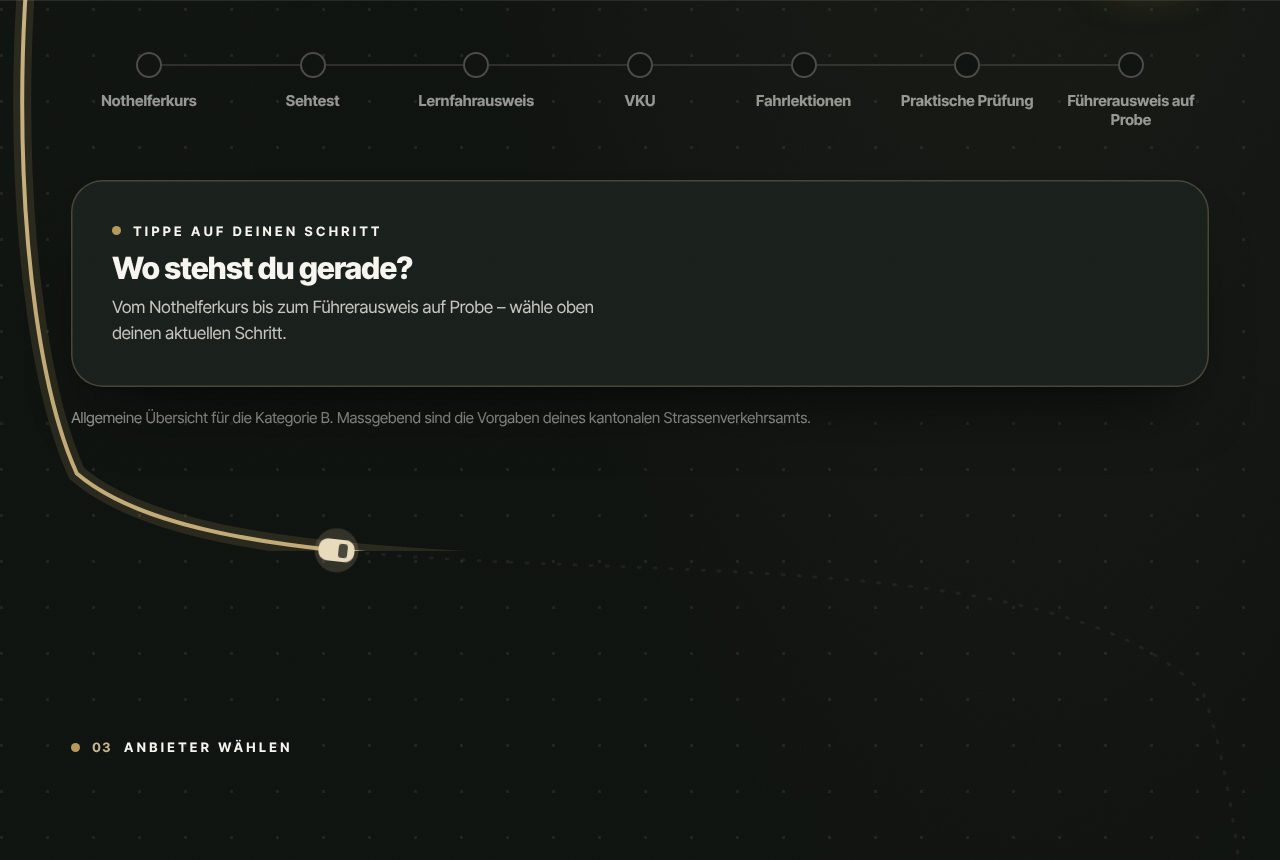
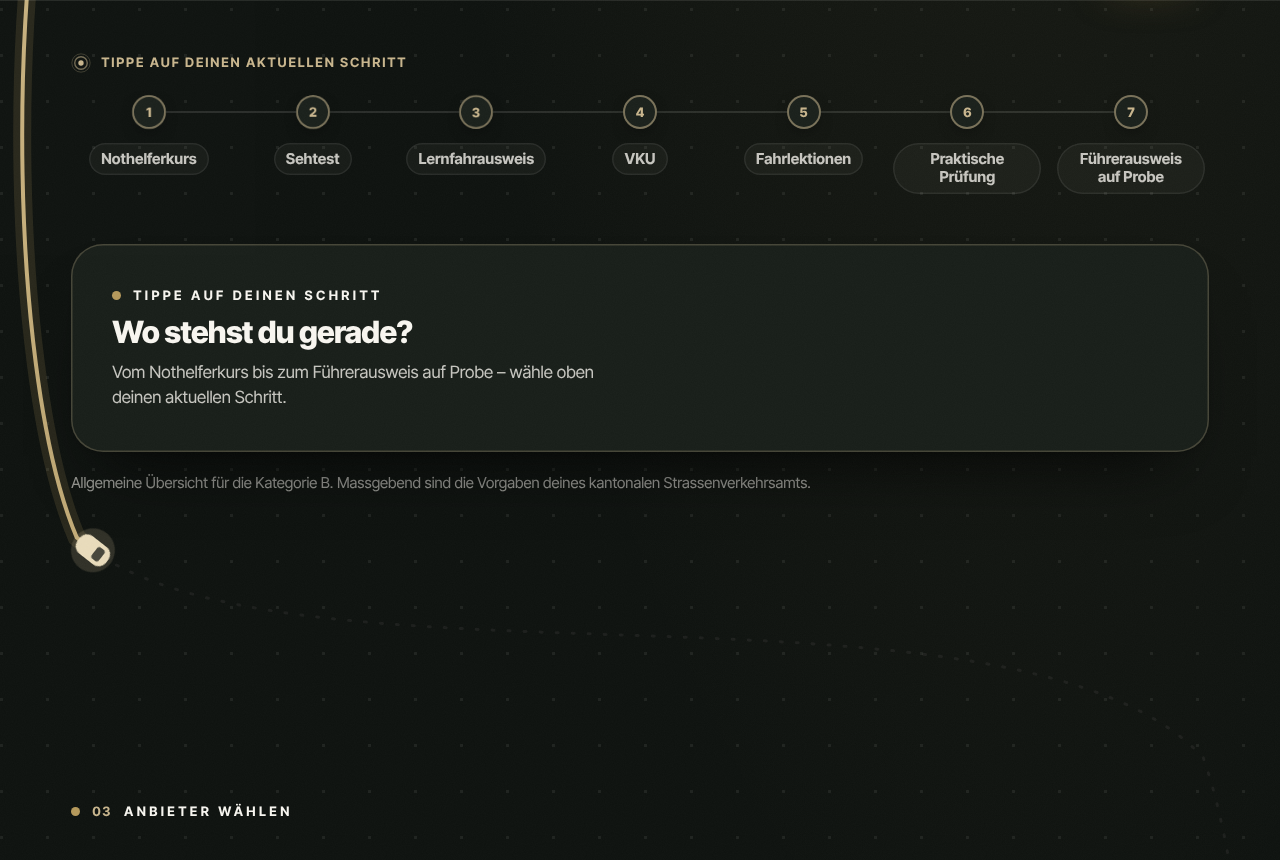
Fahrstart Roadmap: Schritte sichtbar klickbar
- Nummerierte Punkte mit Goldrand, Beschriftung als Button (mobil mit Pfeil, aufgeklappt nach unten)
- Hover-, Fokus- und Druck-Feedback, gewaehlter Schritt in Gold
- Hinweis und Puls-Welle ueber die Punkte bis zur ersten Auswahl

Claude-Session: https://claude.ai/code/session_01EPwibJ8KXm8GrN7qt8Mmr4

diff --git a/web/gewinnen/assets/css/fahrstart.css b/web/gewinnen/assets/css/fahrstart.css
@@ -109,18 +109,28 @@ main > section { position: relative; z-index: 1; }
 .rm-path { position: relative; }
 .rm-steps { position: relative; z-index: 2; display: grid; grid-template-columns: repeat(7, 1fr); gap: 8px; }
 .rm-steps li > button {
-  width: 100%; display: grid; justify-items: center; gap: 14px; padding: 0 4px; border: 0; background: none; cursor: pointer; text-align: center;
+  width: 100%; display: grid; justify-items: center; gap: 14px; padding: 0 4px; border: 0; background: none; cursor: pointer; text-align: center; -webkit-tap-highlight-color: transparent;
 }
-.rm-steps .dot { position: relative; width: 26px; height: 26px; border-radius: 50%; background: var(--bg); box-shadow: inset 0 0 0 2px rgba(248, 246, 240, .25); transition: box-shadow .4s, background .4s, transform .5s var(--ease); }
-.rm-steps .t { font-size: 15px; font-weight: 700; color: var(--muted); line-height: 1.25; transition: color .4s; }
-.rm-steps li > button:hover .dot { transform: scale(1.18); box-shadow: inset 0 0 0 2px var(--gold); }
+/* Klickbar wirken: nummerierte Punkte mit Goldrand, Beschriftung als Button, Hover/Press-Feedback */
+.rm-steps .dot { position: relative; width: 34px; height: 34px; border-radius: 50%; display: grid; place-items: center; background: #1b211c; box-shadow: inset 0 0 0 2px rgba(201, 182, 142, .55), 0 6px 18px -8px rgba(0, 0, 0, .8); transition: box-shadow .4s, background .4s, transform .5s var(--ease); }
+.rm-steps .dot b { font-size: 13px; font-weight: 800; color: var(--gold-hi); font-variant-numeric: tabular-nums; transition: color .4s; }
+.rm-steps .t { padding: 7px 12px; border-radius: 999px; font-size: 15px; font-weight: 700; color: var(--text-2); line-height: 1.25; background: rgba(248, 246, 240, .04); box-shadow: inset 0 0 0 1.5px rgba(248, 246, 240, .08); transition: color .3s, background .3s, box-shadow .3s; }
+.rm-steps li > button:hover .dot, .rm-steps li > button:focus-visible .dot { transform: scale(1.14); box-shadow: inset 0 0 0 2px var(--gold), 0 0 0 6px rgba(201, 182, 142, .16); }
+.rm-steps li > button:hover .t, .rm-steps li > button:focus-visible .t { color: var(--ivory); background: rgba(201, 182, 142, .12); box-shadow: inset 0 0 0 1.5px rgba(201, 182, 142, .45); }
+.rm-steps li > button:active .dot { transform: scale(.94); }
+.rm-steps li > button:focus-visible { outline: none; }
 .rm-steps li.is-done .dot { background: var(--gold); box-shadow: none; }
+.rm-steps li.is-done .dot b { color: #111512; }
 .rm-steps li.is-done .t { color: var(--text-2); }
-.rm-steps li.is-current .dot { background: var(--ivory); box-shadow: 0 0 0 7px rgba(201, 182, 142, .3); }
-.rm-steps li.is-current .t { color: var(--ivory); }
-.rm-track { position: absolute; z-index: 1; left: calc(100% / 14); right: calc(100% / 14); top: 12px; height: 2px; background: rgba(248, 246, 240, .12); }
+.rm-steps li.is-current > button .dot { background: var(--ivory); box-shadow: 0 0 0 7px rgba(201, 182, 142, .3); }
+.rm-steps li.is-current > button .dot b { color: #111512; }
+.rm-steps li.is-current > button .t { color: #111512; background: var(--gold-grad); box-shadow: none; }
+.rm-hint { display: inline-flex; align-items: center; gap: 10px; margin: 0 0 22px; font-size: 13px; font-weight: 700; letter-spacing: .14em; text-transform: uppercase; color: var(--gold-hi); }
+.rm-hint svg { width: 20px; height: 20px; }
+.rm-hint.is-gone { opacity: 0; transition: opacity .5s; }
+.rm-track { position: absolute; z-index: 1; left: calc(100% / 14); right: calc(100% / 14); top: 16px; height: 2px; background: rgba(248, 246, 240, .12); }
 .rm-fill { position: absolute; left: 0; top: 0; height: 100%; width: 0; background: var(--gold); }
-.rm-car { position: absolute; top: -9px; left: 0; width: 20px; height: 20px; margin-left: -10px; border-radius: 6px; background: #e9dcbc; box-shadow: 0 0 0 6px rgba(201, 182, 142, .2), 0 0 24px 6px rgba(201, 182, 142, .35); opacity: 0; }
+.rm-car { position: absolute; top: -9px; z-index: 3; left: 0; width: 20px; height: 20px; margin-left: -10px; border-radius: 6px; background: #e9dcbc; box-shadow: 0 0 0 6px rgba(201, 182, 142, .2), 0 0 24px 6px rgba(201, 182, 142, .35); opacity: 0; }
 .rm-detail { margin-top: 50px; display: grid; grid-template-columns: 1.3fr .7fr; gap: 30px; align-items: center; }
 .rm-info { display: grid; gap: 10px; }
 .rm-info .small { font-size: 17px; color: var(--text-2); max-width: 54ch; }
@@ -132,9 +142,11 @@ main > section { position: relative; z-index: 1; }
 @media (max-width: 900px) {
   /* Mobil: vertikaler Zeitstrahl, Linie exakt vom ersten bis zum letzten Punkt (Masse per JS), Details klappen unter dem Schritt auf */
   .rm-steps { grid-template-columns: 1fr; gap: 0; }
-  .rm-steps li > button { grid-template-columns: 26px 1fr; justify-items: start; align-items: center; gap: 18px; padding: 11px 0; text-align: left; }
-  .rm-steps .t { font-size: 16px; }
-  .rm-track { left: 12px; right: auto; top: 24px; width: 2px; height: 0; }
+  .rm-steps li > button { grid-template-columns: 34px minmax(0, 1fr); justify-items: stretch; align-items: center; gap: 14px; padding: 5px 0; text-align: left; }
+  .rm-steps .t { display: flex; align-items: center; justify-content: space-between; gap: 12px; padding: 13px 16px; border-radius: 14px; font-size: 16px; }
+  .rm-steps .t::after { content: ''; flex: none; width: 8px; height: 8px; margin-right: 3px; border-right: 2px solid currentColor; border-bottom: 2px solid currentColor; transform: rotate(-45deg); opacity: .7; transition: transform .4s var(--ease); }
+  .rm-steps li.is-current > button .t::after { transform: rotate(45deg); }
+  .rm-track { left: 16px; right: auto; top: 24px; width: 2px; height: 0; }
   .rm-fill { width: 100%; height: 0; }
   .rm-car { top: 0; left: 1px; width: 18px; height: 18px; margin: -9px 0 0 -9px; border-radius: 5px; }
   .rm-detail { grid-template-columns: 1fr; gap: 16px; margin-top: 28px; }

diff --git a/web/gewinnen/fahrstart/index.html b/web/gewinnen/fahrstart/index.html
@@ -143,15 +143,16 @@
         <p class="lead" data-reveal>Tippe auf deinen aktuellen Schritt – wir zeigen dir, welcher Gewinn dich jetzt am weitesten bringt.</p>
       </div>
       <div class="rm" data-reveal>
+        <p class="rm-hint" data-rm-hint><svg viewBox="0 0 24 24" aria-hidden="true"><circle cx="12" cy="12" r="3.2" fill="currentColor"/><circle cx="12" cy="12" r="7.5" fill="none" stroke="currentColor" stroke-width="1.6" opacity=".55"/><circle cx="12" cy="12" r="11" fill="none" stroke="currentColor" stroke-width="1.2" opacity=".25"/></svg>Tippe auf deinen aktuellen Schritt</p>
         <div class="rm-path">
         <ol class="rm-steps" data-rm-steps>
-          <li><button type="button" data-step="0"><span class="dot"></span><span class="t">Nothelferkurs</span></button></li>
-          <li><button type="button" data-step="1"><span class="dot"></span><span class="t">Sehtest</span></button></li>
-          <li><button type="button" data-step="2"><span class="dot"></span><span class="t">Lernfahrausweis</span></button></li>
-          <li><button type="button" data-step="3"><span class="dot"></span><span class="t">VKU</span></button></li>
-          <li><button type="button" data-step="4"><span class="dot"></span><span class="t">Fahrlektionen</span></button></li>
-          <li><button type="button" data-step="5"><span class="dot"></span><span class="t">Praktische Prüfung</span></button></li>
-          <li><button type="button" data-step="6"><span class="dot"></span><span class="t">Führerausweis auf Probe</span></button></li>
+          <li><button type="button" data-step="0"><span class="dot"><b>1</b></span><span class="t">Nothelferkurs</span></button></li>
+          <li><button type="button" data-step="1"><span class="dot"><b>2</b></span><span class="t">Sehtest</span></button></li>
+          <li><button type="button" data-step="2"><span class="dot"><b>3</b></span><span class="t">Lernfahrausweis</span></button></li>
+          <li><button type="button" data-step="3"><span class="dot"><b>4</b></span><span class="t">VKU</span></button></li>
+          <li><button type="button" data-step="4"><span class="dot"><b>5</b></span><span class="t">Fahrlektionen</span></button></li>
+          <li><button type="button" data-step="5"><span class="dot"><b>6</b></span><span class="t">Praktische Prüfung</span></button></li>
+          <li><button type="button" data-step="6"><span class="dot"><b>7</b></span><span class="t">Führerausweis auf Probe</span></button></li>
         </ol>
         <div class="rm-track" aria-hidden="true"><i class="rm-fill"></i><span class="rm-car"></span></div>
         </div>

diff --git a/web/gewinnen/assets/js/fahrstart.js b/web/gewinnen/assets/js/fahrstart.js
@@ -359,7 +359,22 @@ function roadmap() {
     }
   };
 
+  // Einladung zum Antippen: Puls-Welle über die Punkte, solange noch nichts gewählt ist und die Sektion sichtbar ist
+  const dots = $$('.rm-steps .dot');
+  const hint = $('[data-rm-hint]');
+  let wave = null;
+  if (!reduced) {
+    wave = gsap.timeline({ repeat: -1, repeatDelay: 1.6, paused: true })
+      .to(dots, { scale: 1.2, duration: 0.26, ease: 'power2.out', stagger: 0.09, yoyo: true, repeat: 1 });
+    ScrollTrigger.create({ trigger: '.rm', start: 'top 85%', end: 'bottom 15%', onToggle: (st) => { if (wave) st.isActive ? wave.play() : wave.pause(); } });
+  }
+  const stopHint = () => {
+    if (wave) { wave.kill(); wave = null; gsap.set(dots, { clearProps: 'transform' }); }
+    hint?.classList.add('is-gone');
+  };
+
   const set = (i) => {
+    stopHint();
     current = i;
     const s = STEPS[i];
     items.forEach((li, k) => { li.classList.toggle('is-done', k < i); li.classList.toggle('is-current', k === i); });
